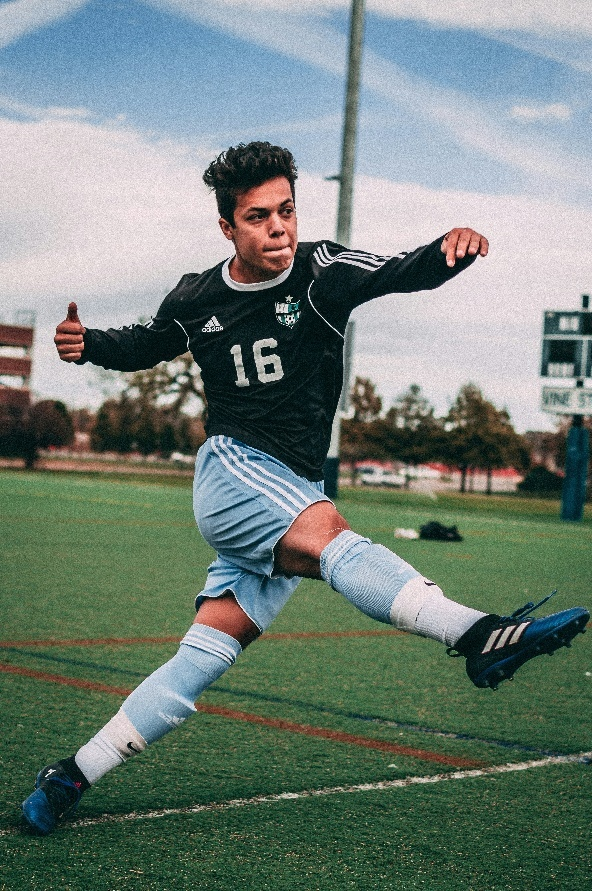
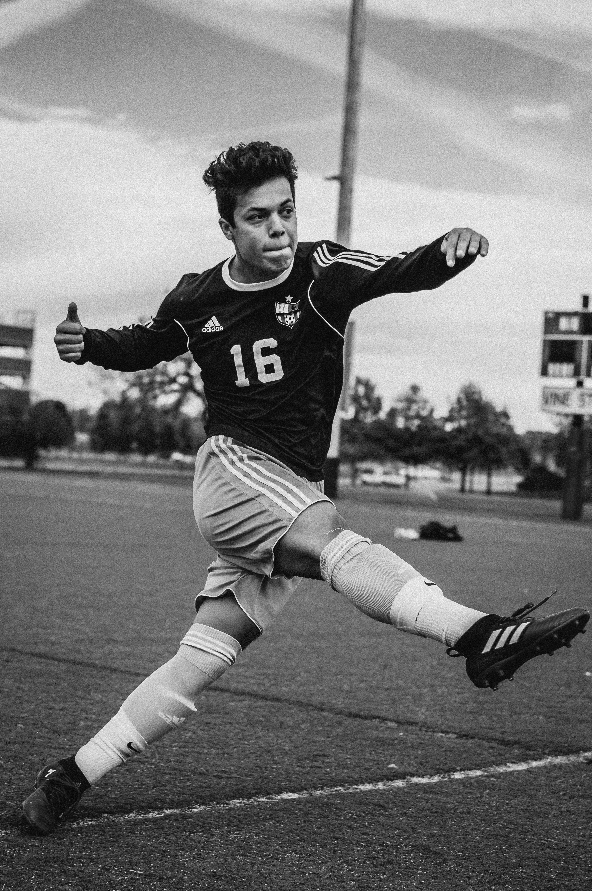
파일 내용 수정

diff --git a/Ch.02/2-1_1.py b/Ch.02/2-1_1.py
@@ -1,16 +1,22 @@
-# 이미지 파일 읽고, 표시하고, 저장하기
+## 이미지 파일 읽고, 표시하고, 저장하기
 import cv2 as cv     # OpenCV 라이브러리 가져오기
 import sys     # 시스템 종료 등의 기능을 위한 sys 모듈 가져옴
 
-img = cv.imread('Ch.02/soccer.jpg')     # 이미지 파일 읽기
+# 이미지 파일 읽기 (상대 경로 기준)
+img = cv.imread('Ch.02/soccer.jpg')   
 
+# 이미지 파일을 찾을 수 없으면 프로그램 종료
 if img is None:
-    sys.exit('File Not Found')     # 이미지 파일을 찾을 수 없으면 프로그램 종료
+    sys.exit('File Not Found')     
 
-cv.imshow('Image Display', img)     # 이미지 화면에 출력
+# 이미지 화면에 출력
+cv.imshow('Image Display', img)     
 
-cv.imwrite('Ch.02/soccer2.jpg', img)     # 이미지를 새로운 파일로 저장
+# 이미지를 새로운 파일로 저장
+cv.imwrite('Ch.02/soccer2.jpg', img)     
 
-cv.waitKey()     # 키보드 입력이 있을 때까지 대기
+# 키보드 입력이 있을 때까지 대기
+cv.waitKey()  
 
-cv.destroyWindow()     # 열려 있는 모든 OpenCV 창 닫기
+# 열려 있는 모든 OpenCV 창 닫기
+cv.destroyWindow()     

diff --git a/Ch.02/2-2.py b/Ch.02/2-2.py
@@ -1,4 +1,4 @@
-# 이미지 파일을 변환하기 - cvtColor
+## 이미지 파일을 변환하기 - cvtColor
 import cv2 as cv     
 import sys     
 
@@ -6,8 +6,9 @@ img = cv.imread('Ch.02/soccer.jpg')
 
 if img is None:
     sys.exit('File Not Found') 
-    
-Gray_image = cv.cvtColor(img, cv.COLOR_BGR2GRAY)     # 기존 이미지를 Gray 이미지로 변환
+
+# 기존 이미지를 Gray 이미지로 변환    
+Gray_image = cv.cvtColor(img, cv.COLOR_BGR2GRAY)     
 
 cv.imshow('Image Display', Gray_image)     
 

diff --git a/Ch.02/2-1_2.py b/Ch.02/2-1_2.py
@@ -1,8 +1,10 @@
-# 이미지 파일 읽고, 표시하고, 저장하기2
+## 이미지 파일 읽고, 표시하고, 저장하기2
+# API 응용 : cv.imread() 에 cv.IMREAD_GRAYSCALE 옵션 추가해보기
 import cv2 as cv     
 import sys     
 
-img = cv.imread('Ch.02/soccer.jpg', cv.IMREAD_GRAYSCALE)     # 이미지 파일 흑백으로 읽기
+# 이미지 파일 흑백으로 읽기
+img = cv.imread('Ch.02/soccer.jpg', cv.IMREAD_GRAYSCALE)     
 
 if img is None:
     sys.exit('File Not Found')     

diff --git a/Ch.02/2-3.py b/Ch.02/2-3.py
@@ -1,0 +1,17 @@
+## 이미지 파일을 변환하기 - resize
+import cv2 as cv     
+import sys     
+
+img = cv.imread('Ch.02/soccer.jpg')     
+
+if img is None:
+    sys.exit('File Not Found') 
+    
+# 기존 이미지를 축소
+Small_image = cv.resize(img, dsize=(0,0), fx=0.3, fy=0.3)     # 가로, 세로를 각각 30%로 축소
+
+cv.imshow('Image Display', Small_image)
+
+cv.waitKey()     
+
+cv.destroyWindow()     

diff --git a/Ch.01/1-1.py b/Ch.01/1-1.py
@@ -1,4 +1,4 @@
-# 이미지 전처리(OpenCV)가 잘 작동되는지 실습 환경 구축
+## 이미지 전처리(OpenCV)가 잘 작동되는지 실습 환경 구축
 import cv2 as cv
 import sys
 
